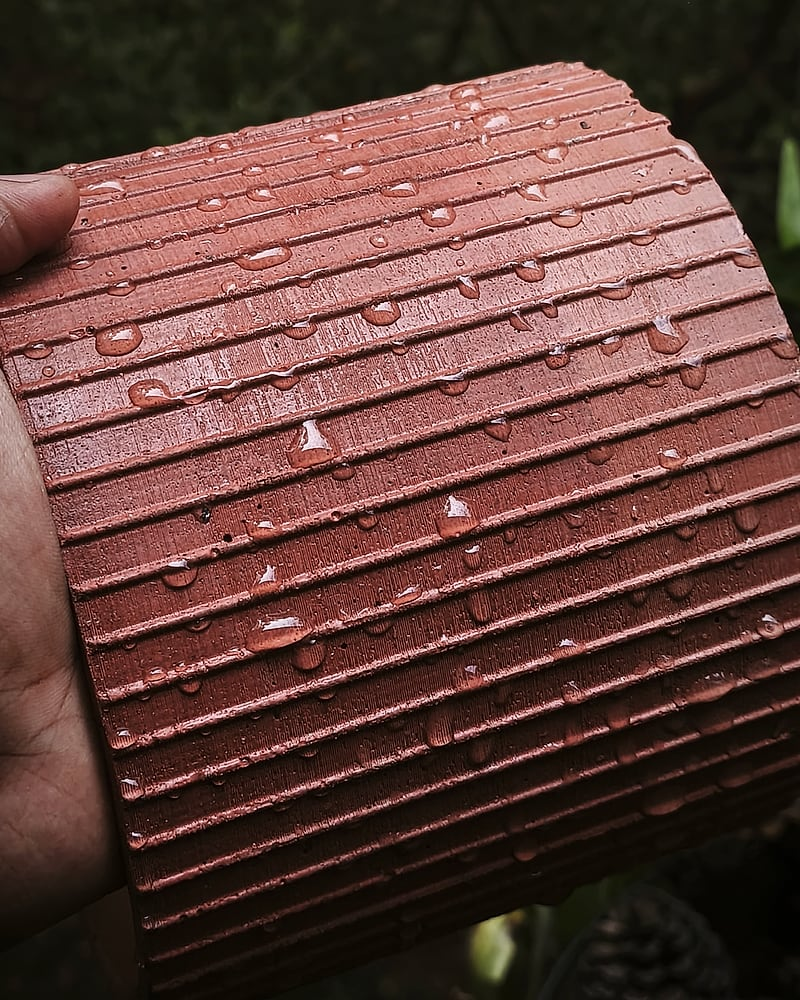
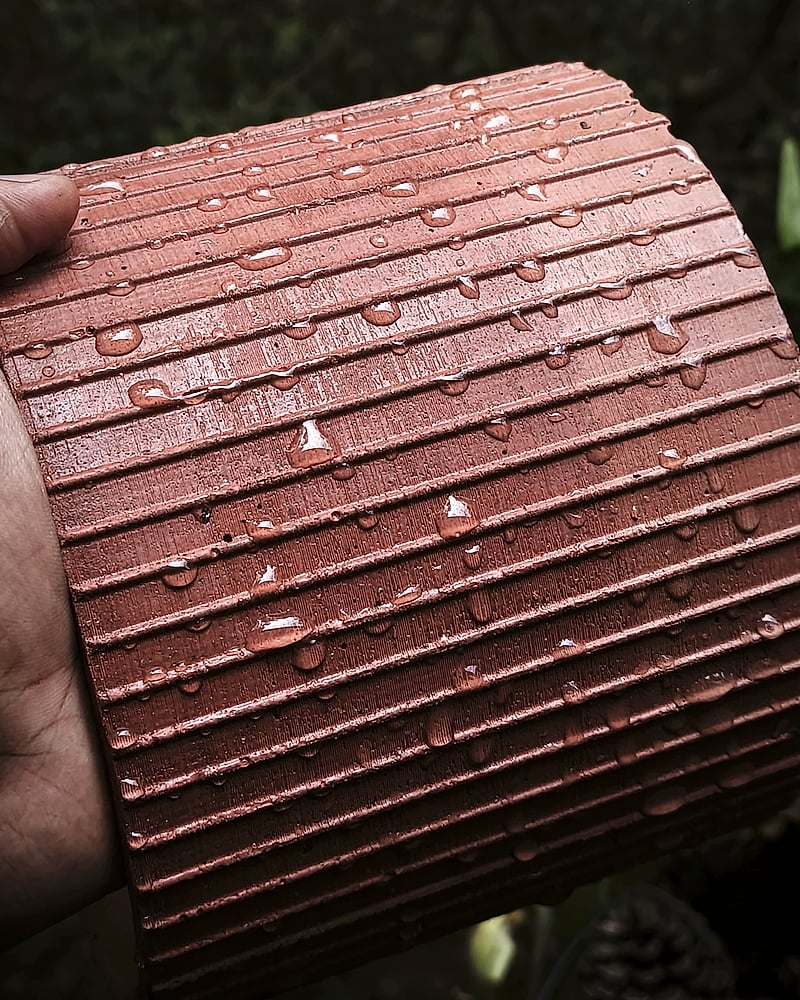
Nosotros: color, encuadre y exposicion ajustados en las cuatro fotos de Piezas

diff --git a/nosotros.html b/nosotros.html
@@ -162,10 +162,10 @@
     <h2>Lo que sale <em>de aquí</em></h2>
   </div>
   <div class="piezas">
-    <figure class="pieza rev" style="--d:.05s"><img src="img/nosotros/pieza-maqueta-estructural.jpg" alt="Maqueta estructural en varillas de madera junto a la ventana del taller" loading="lazy"><figcaption>Maqueta estructural</figcaption></figure>
-    <figure class="pieza rev" style="--d:.12s"><img src="img/nosotros/pieza-mobiliario-exposicion.jpg" alt="Mobiliario de exposición en madera con ensambles, en una sala" loading="lazy"><figcaption>Mobiliario de exposición</figcaption></figure>
-    <figure class="pieza rev" style="--d:.19s"><img src="img/nosotros/pieza-concreto-pigmentado.jpg" alt="Pieza en concreto pigmentado con degradado de amarillo a café y el nombre Pórtico Lab grabado" loading="lazy"><figcaption>Concreto pigmentado</figcaption></figure>
-    <figure class="pieza rev" style="--d:.26s"><img src="img/nosotros/pieza-relieve-arcilla.jpg" alt="Relieve en arcilla roja con gotas de agua, sostenido a mano" loading="lazy"><figcaption>Relieve en arcilla</figcaption></figure>
+    <figure class="pieza rev" style="--d:.05s"><img src="img/nosotros/pieza-maqueta-estructural.jpg?v=2" alt="Maqueta estructural en varillas de madera junto a la ventana del taller" loading="lazy"><figcaption>Maqueta estructural</figcaption></figure>
+    <figure class="pieza rev" style="--d:.12s"><img src="img/nosotros/pieza-mobiliario-exposicion.jpg?v=2" alt="Mobiliario de exposición en madera con ensambles, en una sala" loading="lazy"><figcaption>Mobiliario de exposición</figcaption></figure>
+    <figure class="pieza rev" style="--d:.19s"><img src="img/nosotros/pieza-concreto-pigmentado.jpg?v=2" alt="Pieza en concreto pigmentado con degradado de amarillo a café y el nombre Pórtico Lab grabado" loading="lazy"><figcaption>Concreto pigmentado</figcaption></figure>
+    <figure class="pieza rev" style="--d:.26s"><img src="img/nosotros/pieza-relieve-arcilla.jpg?v=2" alt="Relieve en arcilla roja con gotas de agua, sostenido a mano" loading="lazy"><figcaption>Relieve en arcilla</figcaption></figure>
   </div>
   <div class="ver-todo-wrap"><a class="ver-todo" href="laboratorio.html">Ver el laboratorio →</a></div>
 </section>
